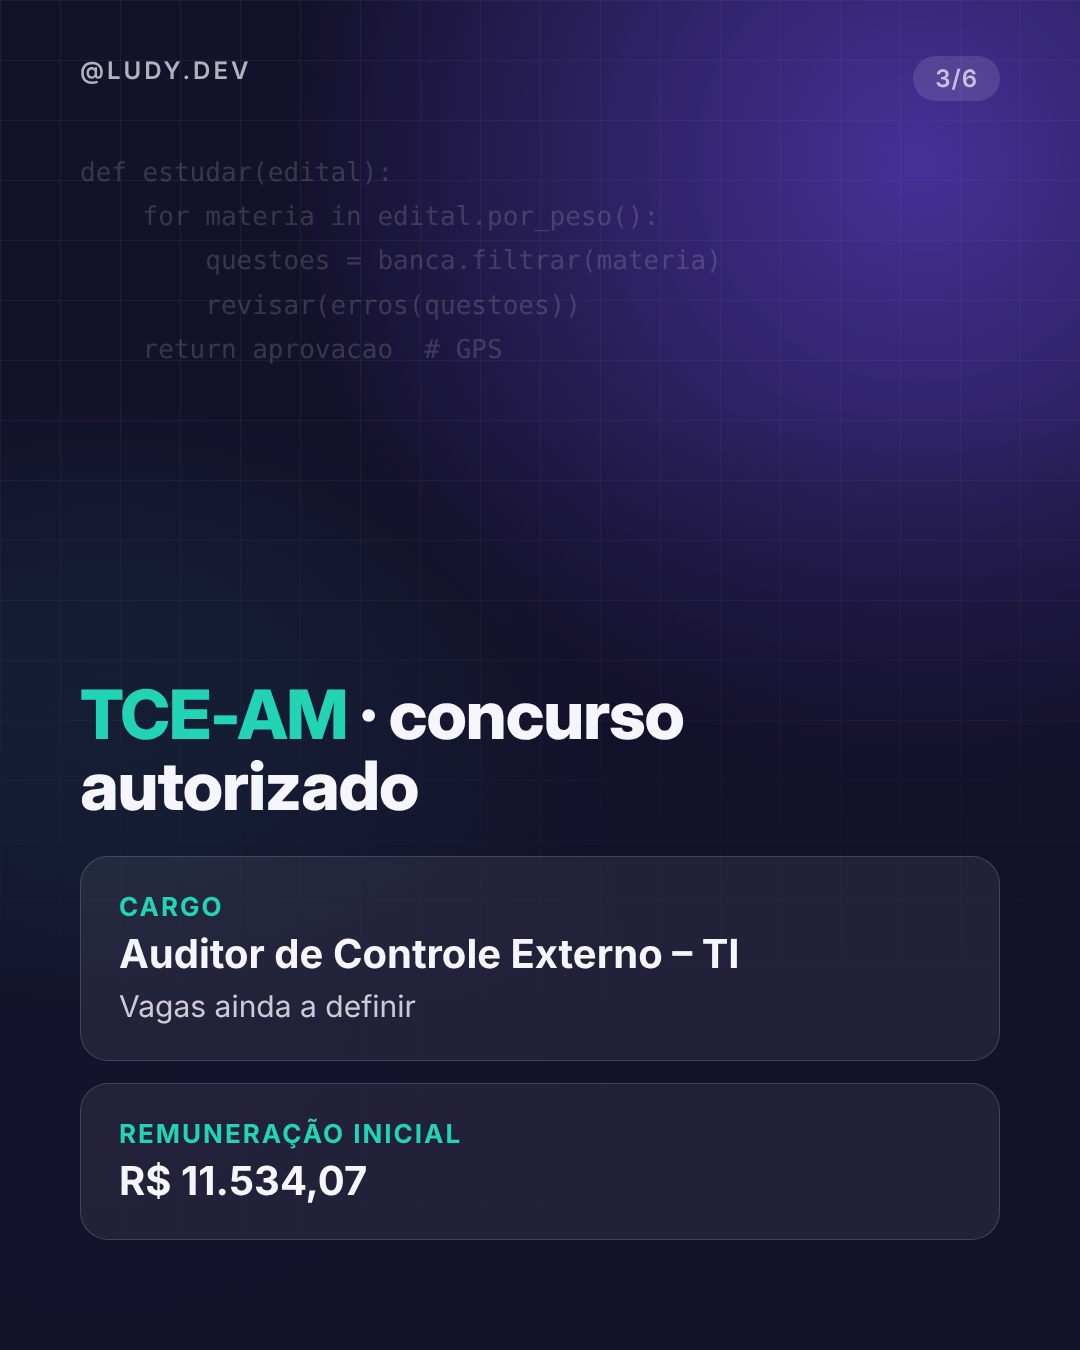
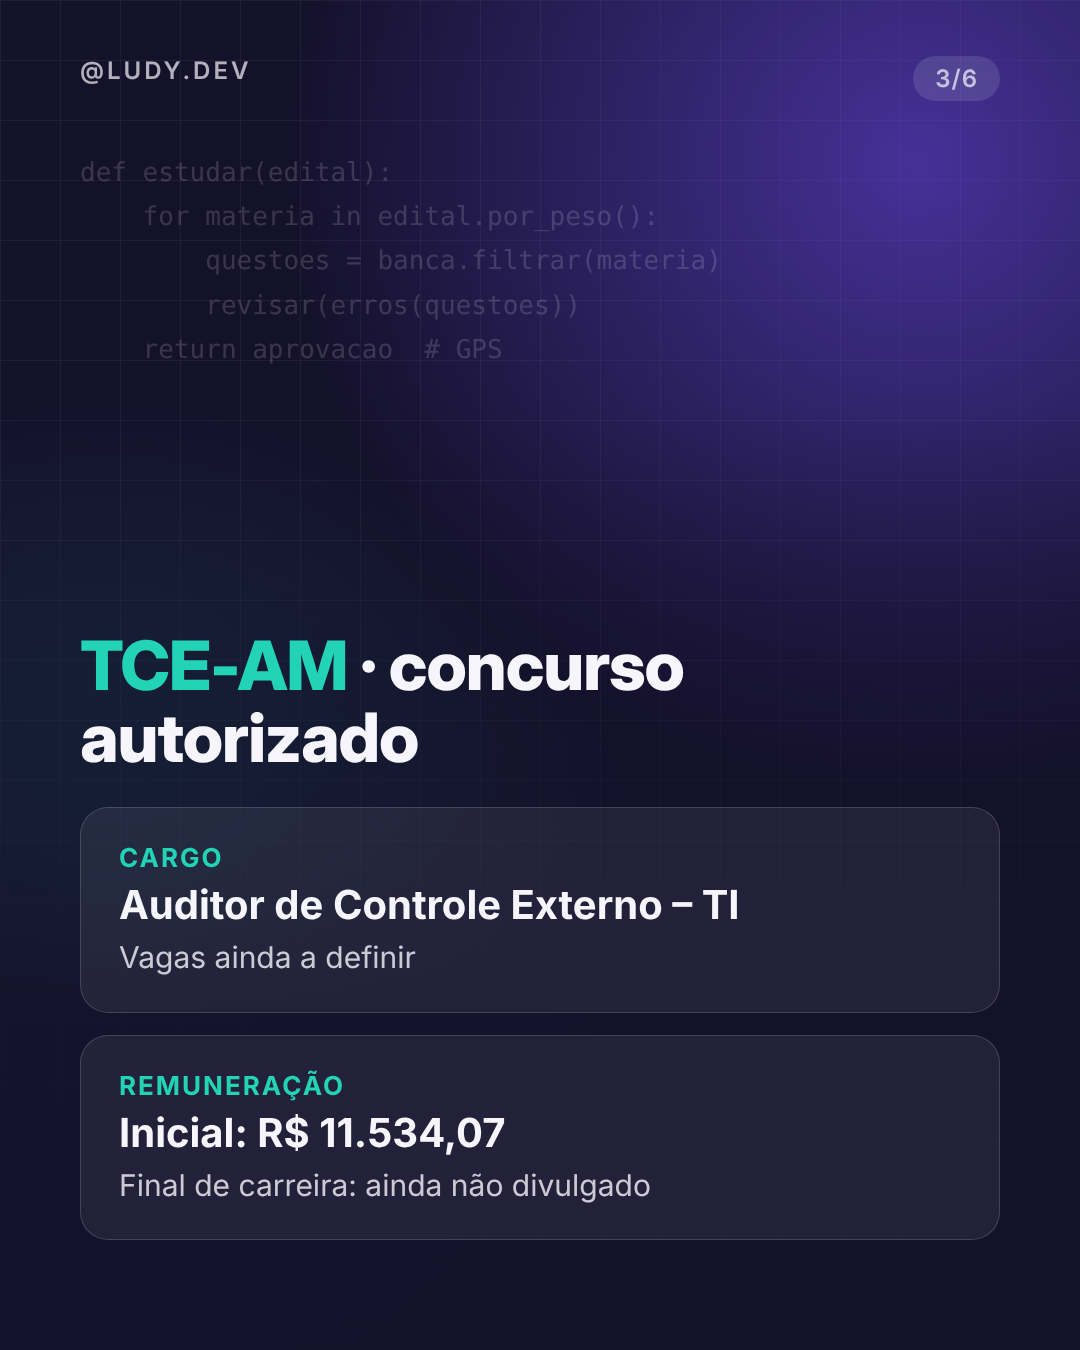
Remuneração final no carrossel do Amazonas
Claude-Session: https://claude.ai/code/session_01PAmMNyTervBqrWDZUP7Uz7

Changed region(s): [[0.0611, 0.4667, 0.6417, 0.9022], [0.6417, 0.6533, 0.7028, 0.7156]]

diff --git a/_ferramentas/posts.py b/_ferramentas/posts.py
@@ -6,9 +6,9 @@ OUT = "/home/claude/posts/2026-10-18"
 T1 = 6
 p1 = [
  page_a(badge() + '<h1>3 concursos no <span class="v">Amazonas</span> pra quem é de <span class="c">TI</span> ficar de olho</h1><div class="sub">Nenhum tem edital ainda. É por isso que você precisa ver isso agora →</div>', 1, T1, photo="fotos/coding-noite-unsplash.jpg"),
- page_a('<h2><span class="c">TJ-AM</span> · concurso anunciado</h2><div class="card"><div class="k">O que já se sabe</div><div class="t">400 vagas previstas</div><div class="d">Analista e Assistente Judiciário · banca a definir</div></div><div class="card"><div class="k">E a TI?</div><div class="t">Área ainda não confirmada</div><div class="d">No último concurso (2019) houve vagas de informática e programação</div></div>', 2, T1, src="Fonte: Qconcursos (atualização de 17/06/2026)."),
- page_a('<h2><span class="c">TCE-AM</span> · concurso autorizado</h2><div class="card"><div class="k">Cargo</div><div class="t">Auditor de Controle Externo – TI</div><div class="d">Vagas ainda a definir</div></div><div class="card"><div class="k">Remuneração inicial</div><div class="t">R$ 11.534,07</div></div>', 3, T1),
- page_a('<h2><span class="c">CGE-AM</span> · comissão formada</h2><div class="card"><div class="k">Cargo</div><div class="t">Auditor de Controle Interno</div><div class="d">Até 50 vagas, sendo 5 para TI</div></div><div class="card"><div class="k">Remuneração</div><div class="t">R$ 13.700,00</div><div class="d">Banca ainda não definida</div></div>', 4, T1, src="Fonte: JC Concursos (atualização de 18/09/2026)."),
+ page_a('<h2><span class="c">TJ-AM</span> · concurso anunciado</h2><div class="card"><div class="k">O que já se sabe</div><div class="t">400 vagas previstas</div><div class="d">Analista e Assistente Judiciário · banca a definir</div></div><div class="card"><div class="k">Remuneração divulgada</div><div class="t">De R$ 8.360,63 a R$ 16.284,47</div><div class="d">Valores por cargo ainda não detalhados</div></div><div class="card"><div class="k">E a TI?</div><div class="t">Área ainda não confirmada</div><div class="d">No último concurso (2019) houve vagas de informática e programação</div></div>', 2, T1, src="Fonte: Qconcursos (atualização de 17/06/2026)."),
+ page_a('<h2><span class="c">TCE-AM</span> · concurso autorizado</h2><div class="card"><div class="k">Cargo</div><div class="t">Auditor de Controle Externo – TI</div><div class="d">Vagas ainda a definir</div></div><div class="card"><div class="k">Remuneração</div><div class="t">Inicial: R$ 11.534,07</div><div class="d">Final de carreira: ainda não divulgado</div></div>', 3, T1),
+ page_a('<h2><span class="c">CGE-AM</span> · comissão formada</h2><div class="card"><div class="k">Cargo</div><div class="t">Auditor de Controle Interno</div><div class="d">Até 50 vagas, sendo 5 para TI</div></div><div class="card"><div class="k">Remuneração</div><div class="t">Inicial: R$ 13.700,00</div><div class="d">Final de carreira: R$ 27.500,00 · banca ainda não definida</div></div>', 4, T1, src="Fontes: JC Concursos (18/09/2026) e Folha Dirigida (03/12/2025)."),
  page_a('<h2>Sem edital = <span class="v">vantagem</span> pra quem começa agora</h2><p>Quando o edital sai, o prazo até a prova costuma ser curto. Quem já tem a base de TI, português e legislação <b>só ajusta a rota</b>.</p>', 5, T1),
  page_a('<h2>Quer um <span class="c">plano</span> pra chegar pronta(o)?</h2><p>É pra isso que existe o método <b>GPS</b>. Comenta <b class="c">NORTE</b> que eu te mando o link do meu grupo no WhatsApp.</p>', 6, T1),
 ]
